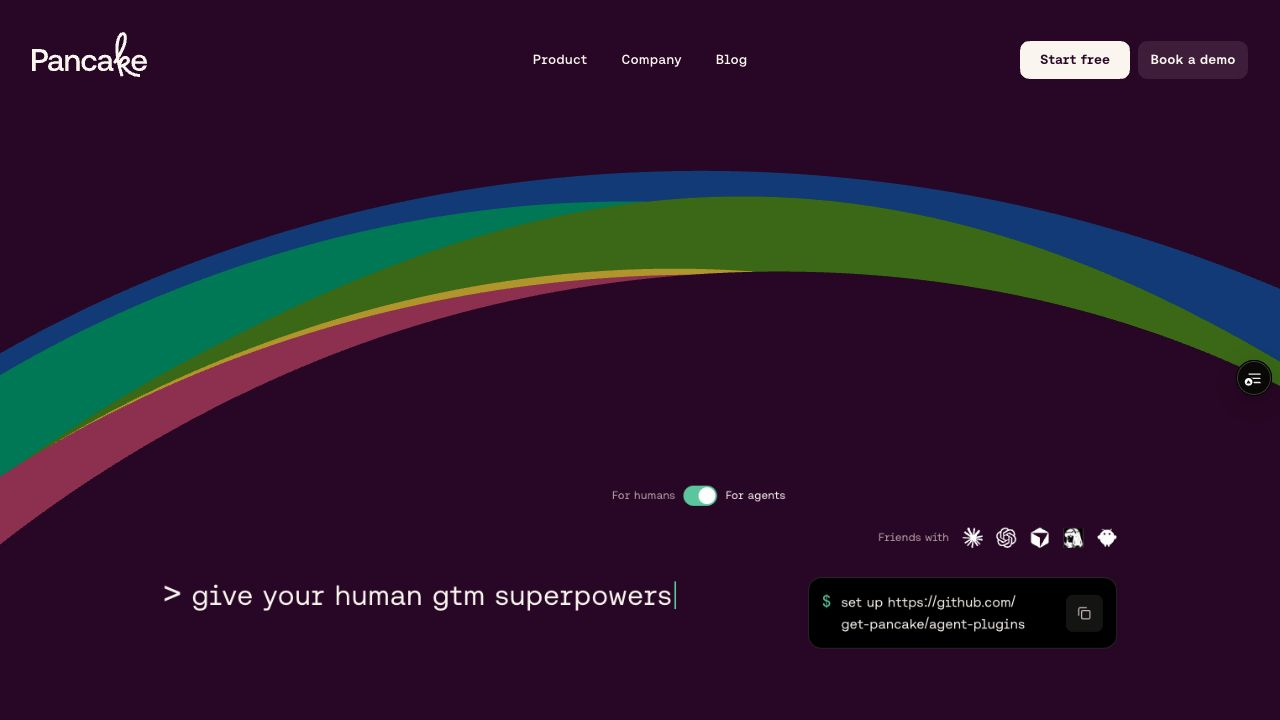
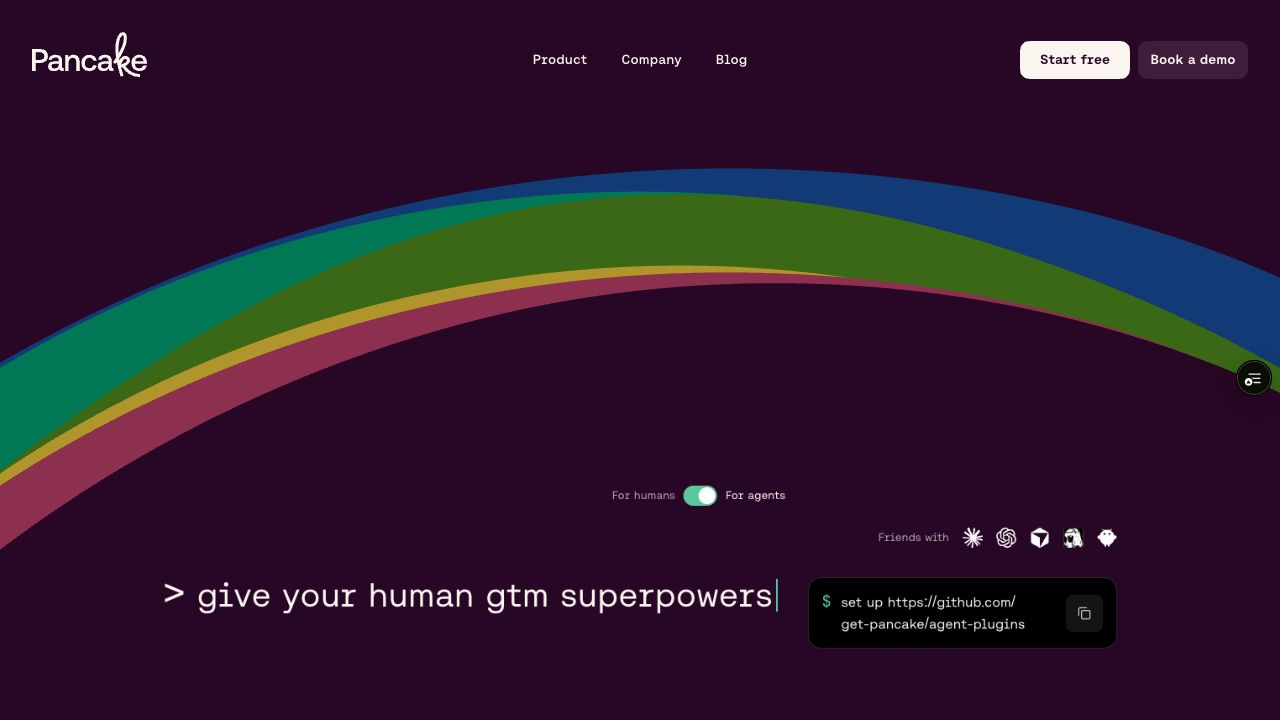
Increase agent headline within available hero space

diff --git a/app/_styles/landing-v3/audience.css b/app/_styles/landing-v3/audience.css
@@ -34,7 +34,12 @@ html:has(.lp-audience-page)::view-transition-new(lp-audience-switch) { animation
 .lp-hero-title__copy { grid-area: 1 / 1; font: inherit; letter-spacing: inherit; }
 .lp-hero-title__copy[aria-hidden="true"] { visibility: hidden; }
 .lp-hero-title__copy--agent { position: relative; align-self: center; display: flex; align-items: center; width: 100%; min-width: 0; height: 0; min-height: 0; container-type: inline-size; }
-.lp-agent-headline { --lp-type-duration: 1600ms; display: inline-flex; align-items: center; font-family: var(--lp-font-fono); font-size: min(var(--lp-text-3xlg), 5.2cqw); font-weight: normal; font-kerning: none; font-variant-ligatures: none; letter-spacing: normal; line-height: 1.3; white-space: pre; }
+.lp-agent-headline { --lp-type-duration: 1600ms; display: inline-flex; align-items: center; font-family: var(--lp-font-fono); font-size: min(var(--lp-text-4xlg), 5.4cqw); font-weight: normal; font-kerning: none; font-variant-ligatures: none; letter-spacing: normal; line-height: 1.3; white-space: pre; }
+/* Use the room before the CTA without contributing to the original H1's
+   grid width. On phones the line remains inside its original column. */
+@media (min-width: 1025px) {
+  .lp-hero-title__copy--agent { position: absolute; top: 50%; left: 0; width: var(--lp-agent-headline-width, 100%); }
+}
 .lp-agent-headline__text { display: flex; flex: none; font: inherit; }
 .lp-agent-headline__prompt { flex: none; font: inherit; }
 .lp-agent-headline__glyph { display: block; flex: none; min-width: 0; max-width: 2em; overflow: hidden; font: inherit; }

diff --git a/components/sections/landing-v3/LpAudience.tsx b/components/sections/landing-v3/LpAudience.tsx
@@ -139,6 +139,7 @@ export function AudienceSelector() {
       const columnScale = box.width / parseFloat(getComputedStyle(inner).width) || 1;
       const gutter = parseFloat(getComputedStyle(inner).getPropertyValue("--lp-space-8"));
       const gap = parseFloat(getComputedStyle(inner).getPropertyValue("--lp-space-4"));
+      inner.style.setProperty("--lp-agent-headline-width", `${Math.max(0, (column.left - title.left) / columnScale - gutter)}px`);
       const half = selector.offsetWidth / 2;
       const edge = Math.min(gutter, Math.max(0, inner.offsetWidth / 2 - half));
       const center = Math.max(half + edge, Math.min((title.right - box.left) / scale - gap, inner.offsetWidth - half - edge));

diff --git a/docs/human-agent-design.md b/docs/human-agent-design.md
@@ -28,12 +28,12 @@ Scope reset by Tristan on September 4, 2026: keep the existing landing, add a to
 - The crossfade was measured at 240ms in both directions on desktop and phone. Heading geometry, scroll position and canvas instances remained unchanged. Three rapid toggles, Back/Forward and reduced-motion switching passed without errors.
 - Removing the capture wait reduced measured desktop click-to-fade onset from about 95–100ms to 20–30ms. Only the page snapshot fades; the named switch snapshot has no fade animation.
 
-Preview: https://pancake-qmue81mt3-getpancake.vercel.app
+Preview: https://pancake-idbcch5yp-getpancake.vercel.app
 
 The setup CTA borrows the single copyable instruction pattern from [Monid](https://monid.ai/), adapted to Pancake’s existing typography, colors and geometry. Other reference screenshots are historical research from the broader concept.
 
 Logo sources: Claude and Codex use the existing React Icons marks; Cursor and OpenClaw match the SVG marks in the supplied Monid reference. Hermes uses the [official NousResearch portrait](https://github.com/NousResearch/hermes-agent/blob/main/website/static/img/logo.png), displayed white through CSS and served at icon size by Next Image. The five-logo row follows the founder’s explicit direction; adding a mark does not represent a new installation test.
 
-The agent headline borrows the insertion-cursor and character-step rhythm from [Hacker Typer](https://hackertyper.net/). It uses Pancake’s cream and rainbow green, with no extra terminal frame. The single line scales within the original headline width, including phones. Codex Browser verified the stepped reveal, complete text, rapid mode changes, stable human geometry and immediate reduced-motion rendering at 320px.
+The agent headline borrows the insertion-cursor and character-step rhythm from [Hacker Typer](https://hackertyper.net/). It uses Pancake’s cream and rainbow green, with no extra terminal frame. The single line uses available space before the setup column on desktop and the original headline width on phones. Its desktop cap is the next v3 type token (39.816px), about 20% larger, while retaining clearance before the terminal. Codex Browser verified the stepped reveal, complete text, rapid mode changes, stable human geometry and immediate reduced-motion rendering at 320px.
 
 The headline and setup terminal share `--lp-font-fono`. Each letter reveals at its natural width so the cursor follows Fono’s proportional spacing; all 31 characters, three typing bursts and reduced-motion behavior were verified in Codex Browser.

diff --git a/PROGRESS.md b/PROGRESS.md
@@ -24,13 +24,14 @@ Scope: original human landing plus a selector above the headline’s right edge.
 - [x] Add the agent-only “Start here” terminal CTA with verified public plugin setup URL and working copy feedback.
 - [x] Set the terminal background to pure black; remove “Start here” at the founder’s request.
 - [x] Add the single-line `> give your human gtm superpowers` Aeonik Fono agent headline, with a finite cursor typing reveal and immediate reduced-motion alternative.
+- [x] Enlarge the agent headline by about 20% on desktop, fitting the line to available space while preserving the human hero and setup alignment.
 - [x] Align the agent setup block to the original human description/buttons bounds, preserving their position and width on desktop and mobile.
 - [x] Replace the paste hint with “Friends with” and white Claude / Codex / Cursor / Hermes / OpenClaw logos above the terminal at its right edge, preserving accessible copy feedback.
 - [x] Compare desktop and phone human layouts against baseline `14ad159`.
 - [x] Independently review code and test booking and mobile menu behavior.
 - [x] Complete production build and updated Vercel preview verification.
 
-Preview: https://pancake-qmue81mt3-getpancake.vercel.app
+Preview: https://pancake-idbcch5yp-getpancake.vercel.app
 Draft PR: https://github.com/get-pancake/website/pull/275
 
 Implementation and validation: [human-agent-design.md](docs/human-agent-design.md).
